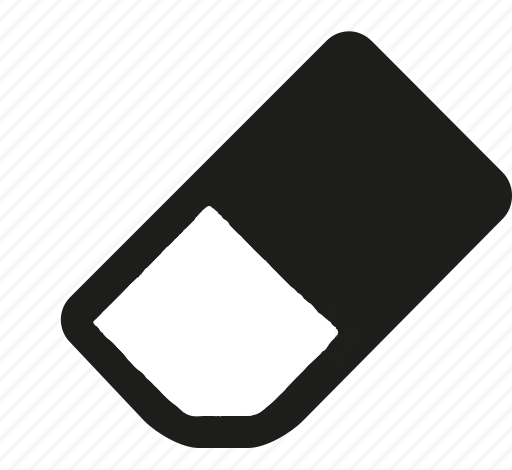
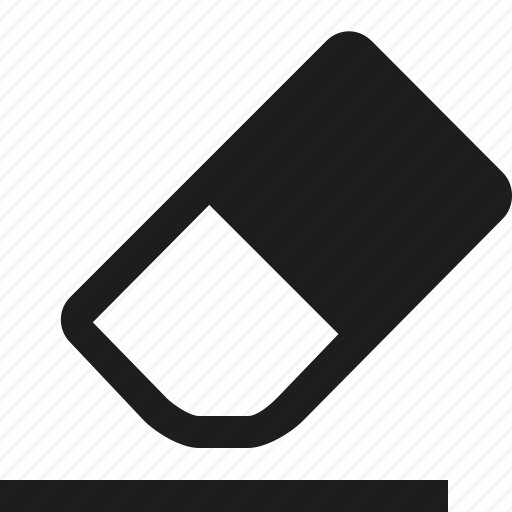
add active state for settings tabs

diff --git a/index.html b/index.html
@@ -34,7 +34,7 @@ GNU GENERAL PUBLIC LICENSE FOR MORE DETAILS.
     </head>
     <img id="logo" src="img/logo_blue.png" style="width: 32rem; display:block; height: 4%; margin-top: 30px; margin-left: auto; margin-right: auto; margin-bottom: 30px;">
     <body id="body" style="background-image: linear-gradient(to right, rgb(145, 254, 158) 20%, rgb(0, 201, 255) 80%);" class="body">
-    <button type="button" onclick="window.location.href='play'" style="position: relative; width: 15rem; height: 5rem; left: 50%; transform: translateX(-50%); border-radius: 1rem; font-size: 1.6em;" class="button" data-hover="Play">Play</button><br><br>
+    <button type="button" onclick="window.location.href='play.html'" style="position: relative; width: 15rem; height: 5rem; left: 50%; transform: translateX(-50%); border-radius: 1rem; font-size: 1.6em;" class="button" data-hover="Play">Play</button><br><br>
     <p>
         <h1>Fun Intro 😎</h1>
         <h2 class="h2">Who?</h2>

diff --git a/css/style.css b/css/style.css
@@ -277,9 +277,9 @@ p {
     background-color: rgb(192, 250, 199);
 }
 
-.modalButton:hover {
+.modalButton:focus {
     background-color: white;
-    opacity: 0.8;
+    opacity: 0.9;
 }
 
 .tabButton {
@@ -293,8 +293,9 @@ p {
 }
 
 .tabButton:hover {
-   transform: translateY(3px);
+   transform: translateY(2px);
 }
+
 
 .modal {
     width: 100%;
